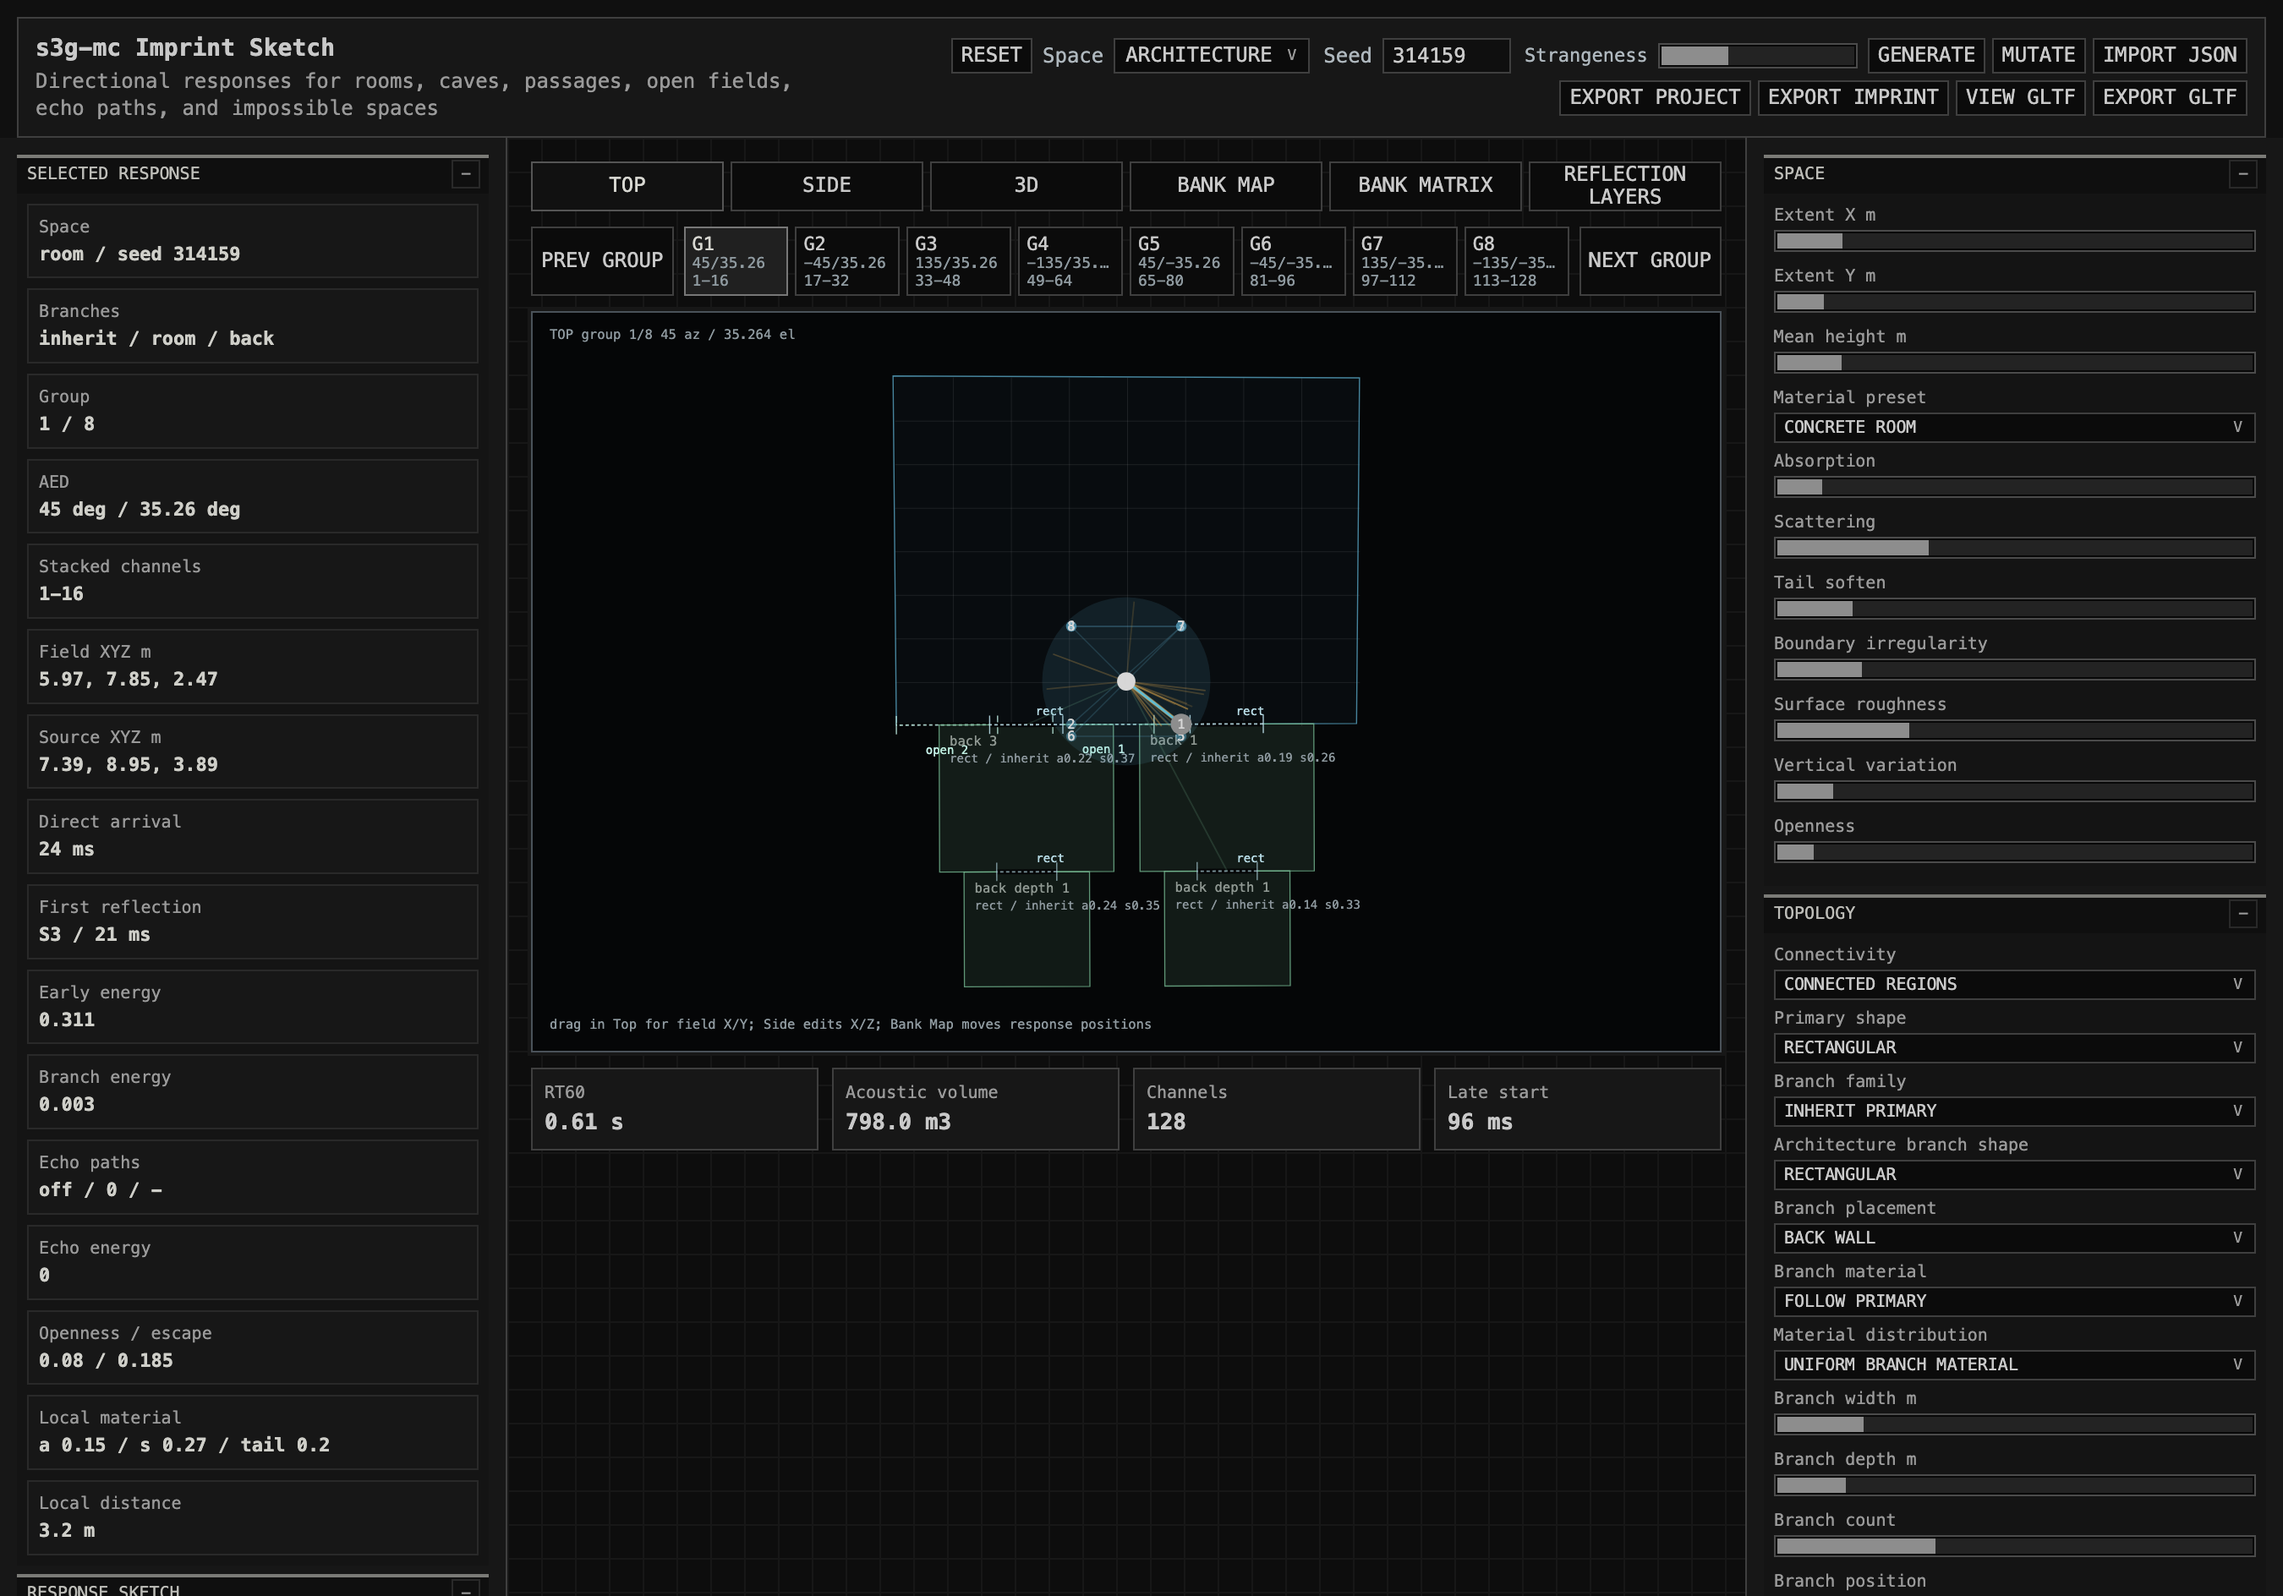
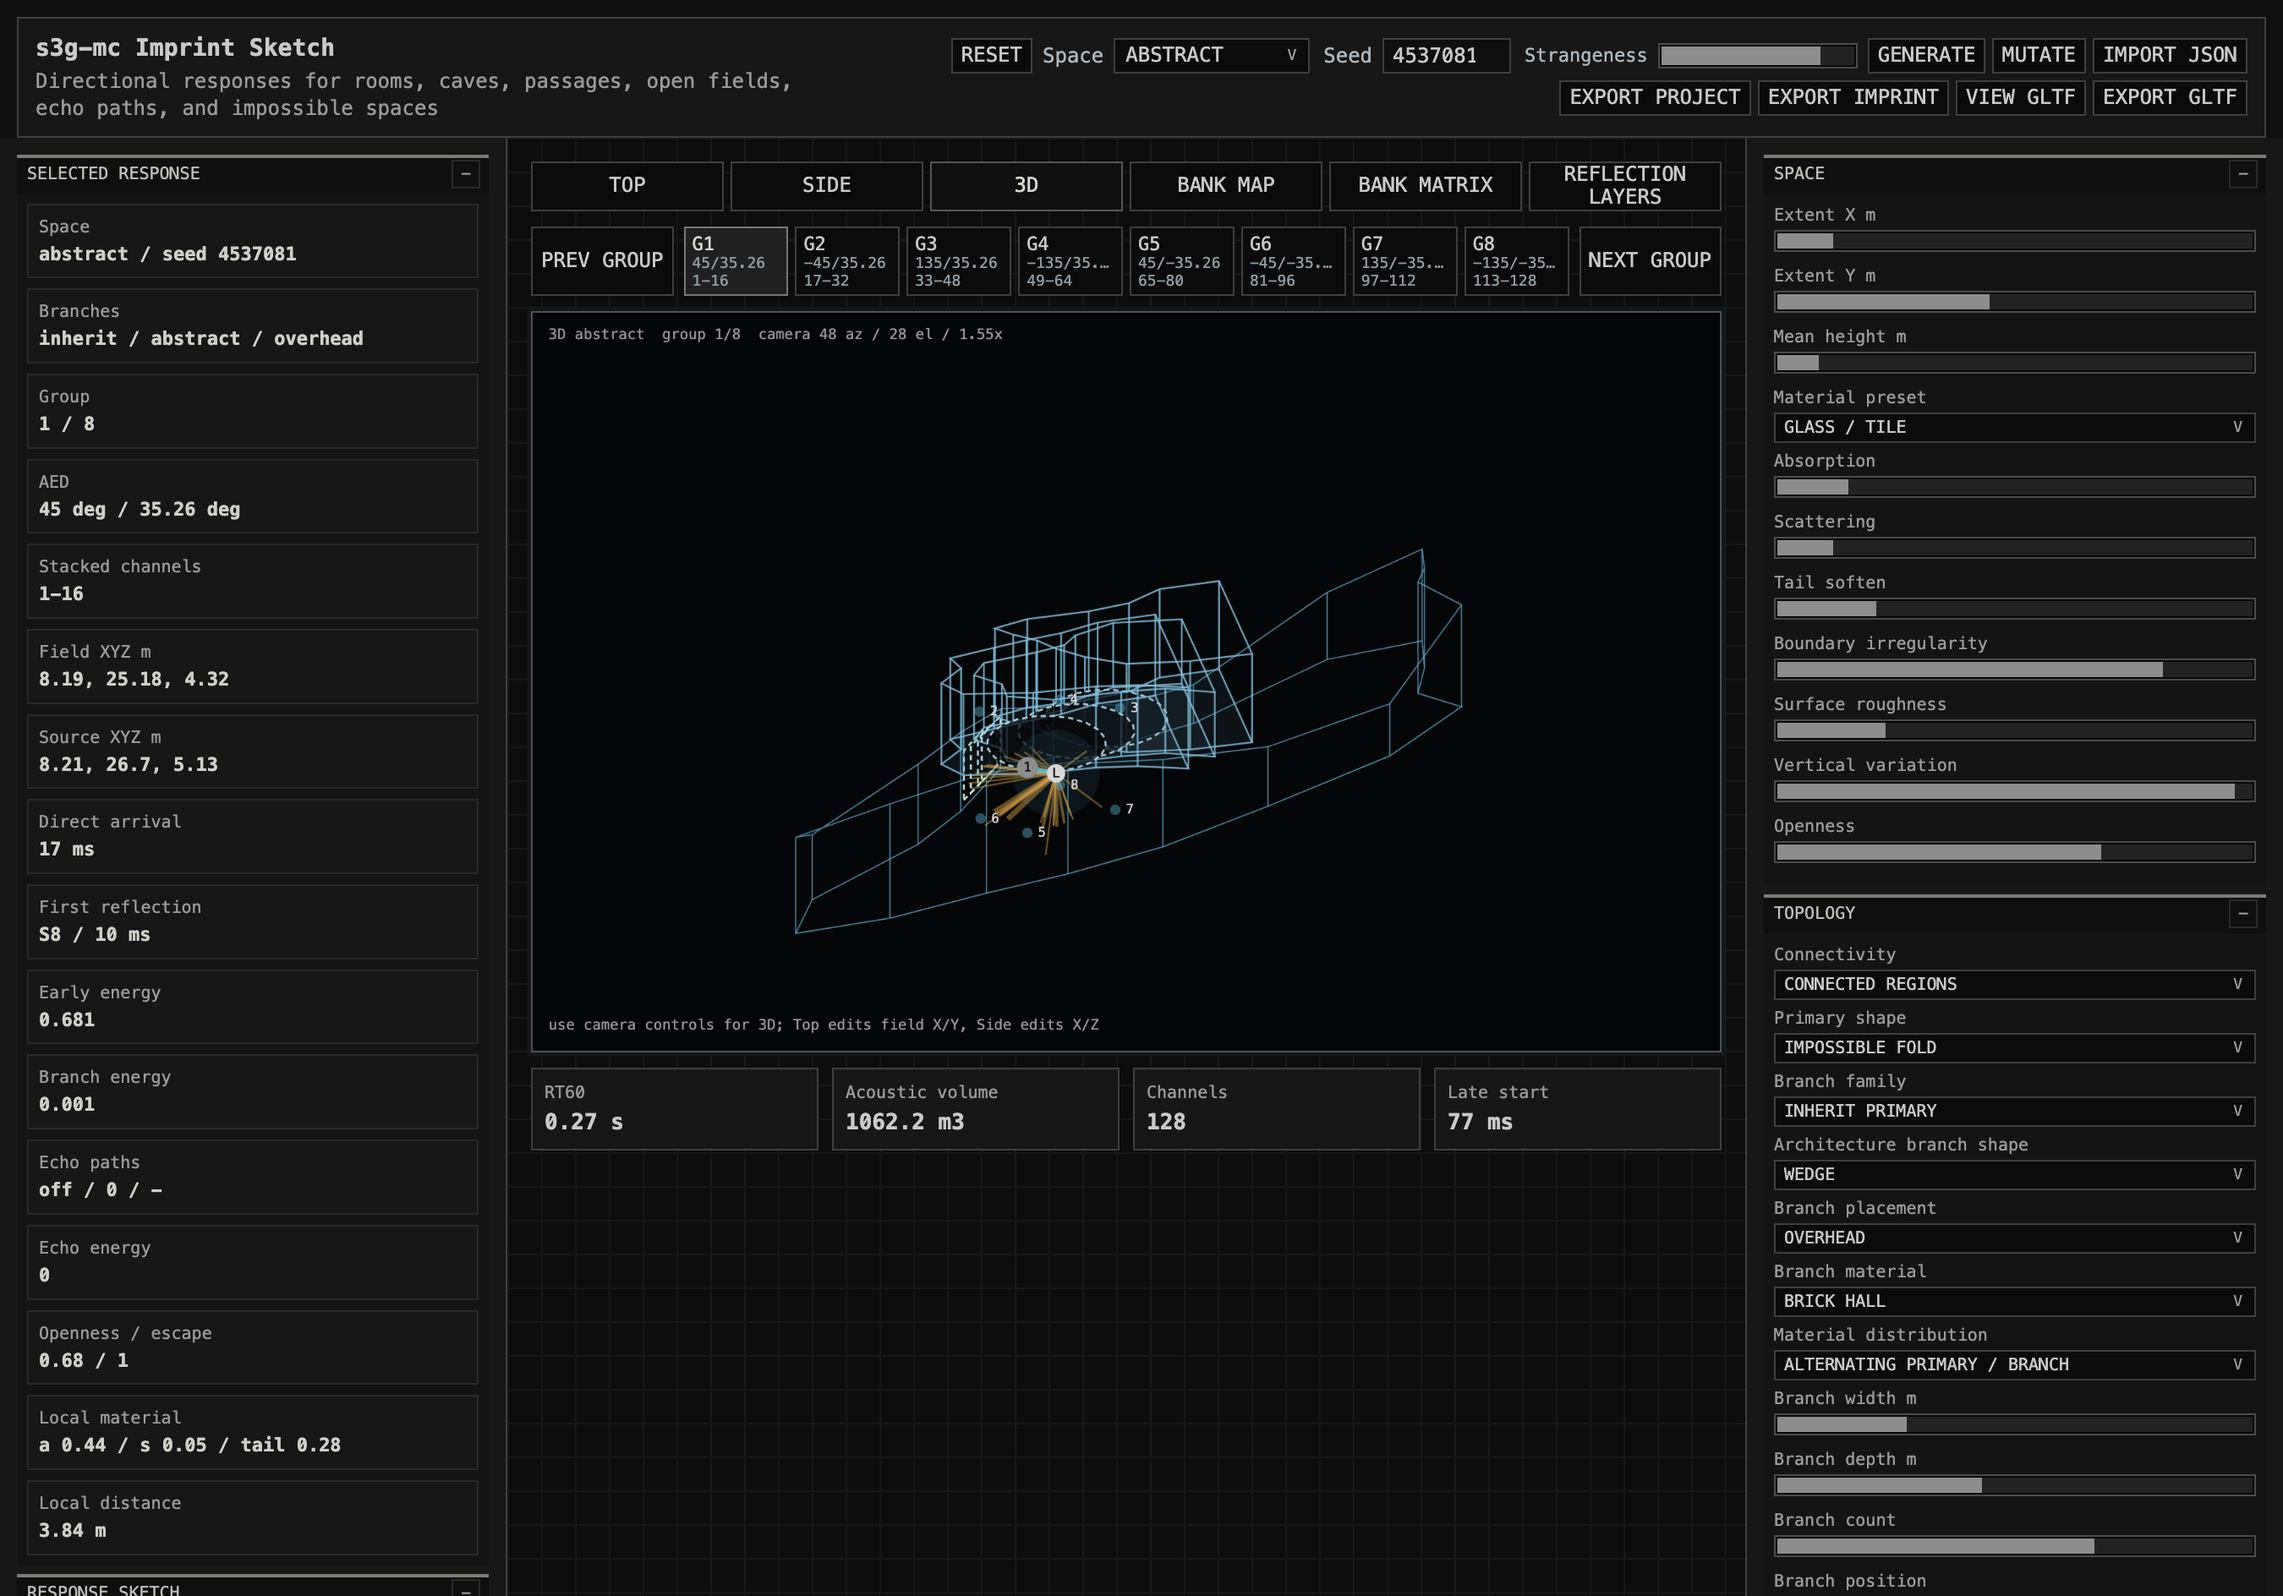
docs

diff --git a/docs/utilities-imprint-sketch.md b/docs/utilities-imprint-sketch.md
@@ -30,7 +30,7 @@ toc:
 
 <div class="utility-screenshot">
   <button class="utility-screenshot-button" type="button" data-lightbox-image="assets/images/utilities/ImprintSketch.png" aria-label="Open Imprint Sketch screenshot">
-    <img src="assets/images/utilities/ImprintSketch.png" alt="Imprint Sketch browser utility showing connected architectural regions and directional response controls">
+    <img src="assets/images/utilities/ImprintSketch.png" alt="Imprint Sketch browser utility showing a high-strangeness abstract connected space in 3D">
   </button>
 </div>
 

diff --git a/docs/utilities-ray-sketch.md b/docs/utilities-ray-sketch.md
@@ -25,7 +25,7 @@ toc:
 
 <div class="utility-screenshot">
   <button class="utility-screenshot-button" type="button" data-lightbox-image="assets/images/utilities/RaySketch.png" aria-label="Open Ray Sketch screenshot">
-    <img src="assets/images/utilities/RaySketch.png" alt="Ray Sketch browser utility showing top and side navigation paths for source and listener">
+    <img src="assets/images/utilities/RaySketch.png" alt="Ray Sketch browser utility showing a high-strangeness abstract field map with sampled source cells">
   </button>
 </div>
 
